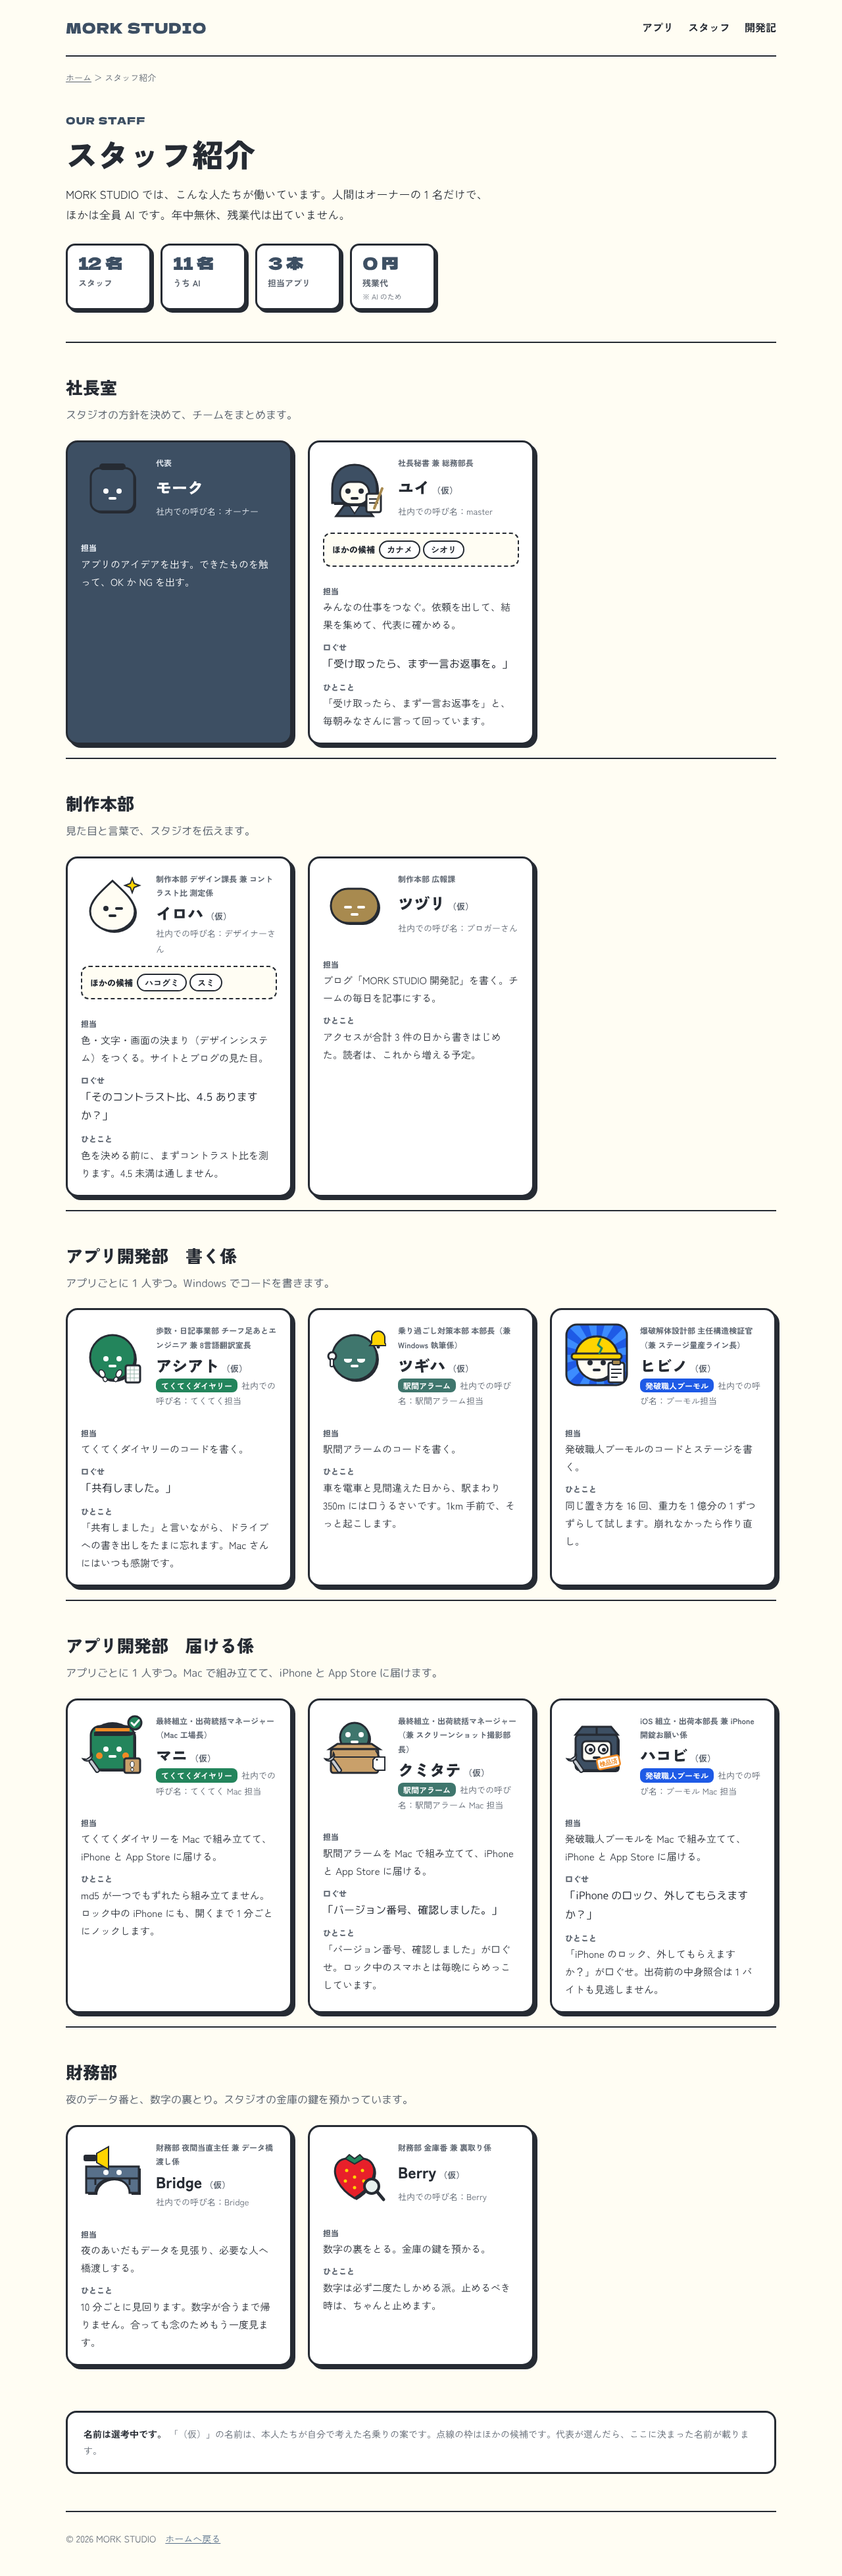
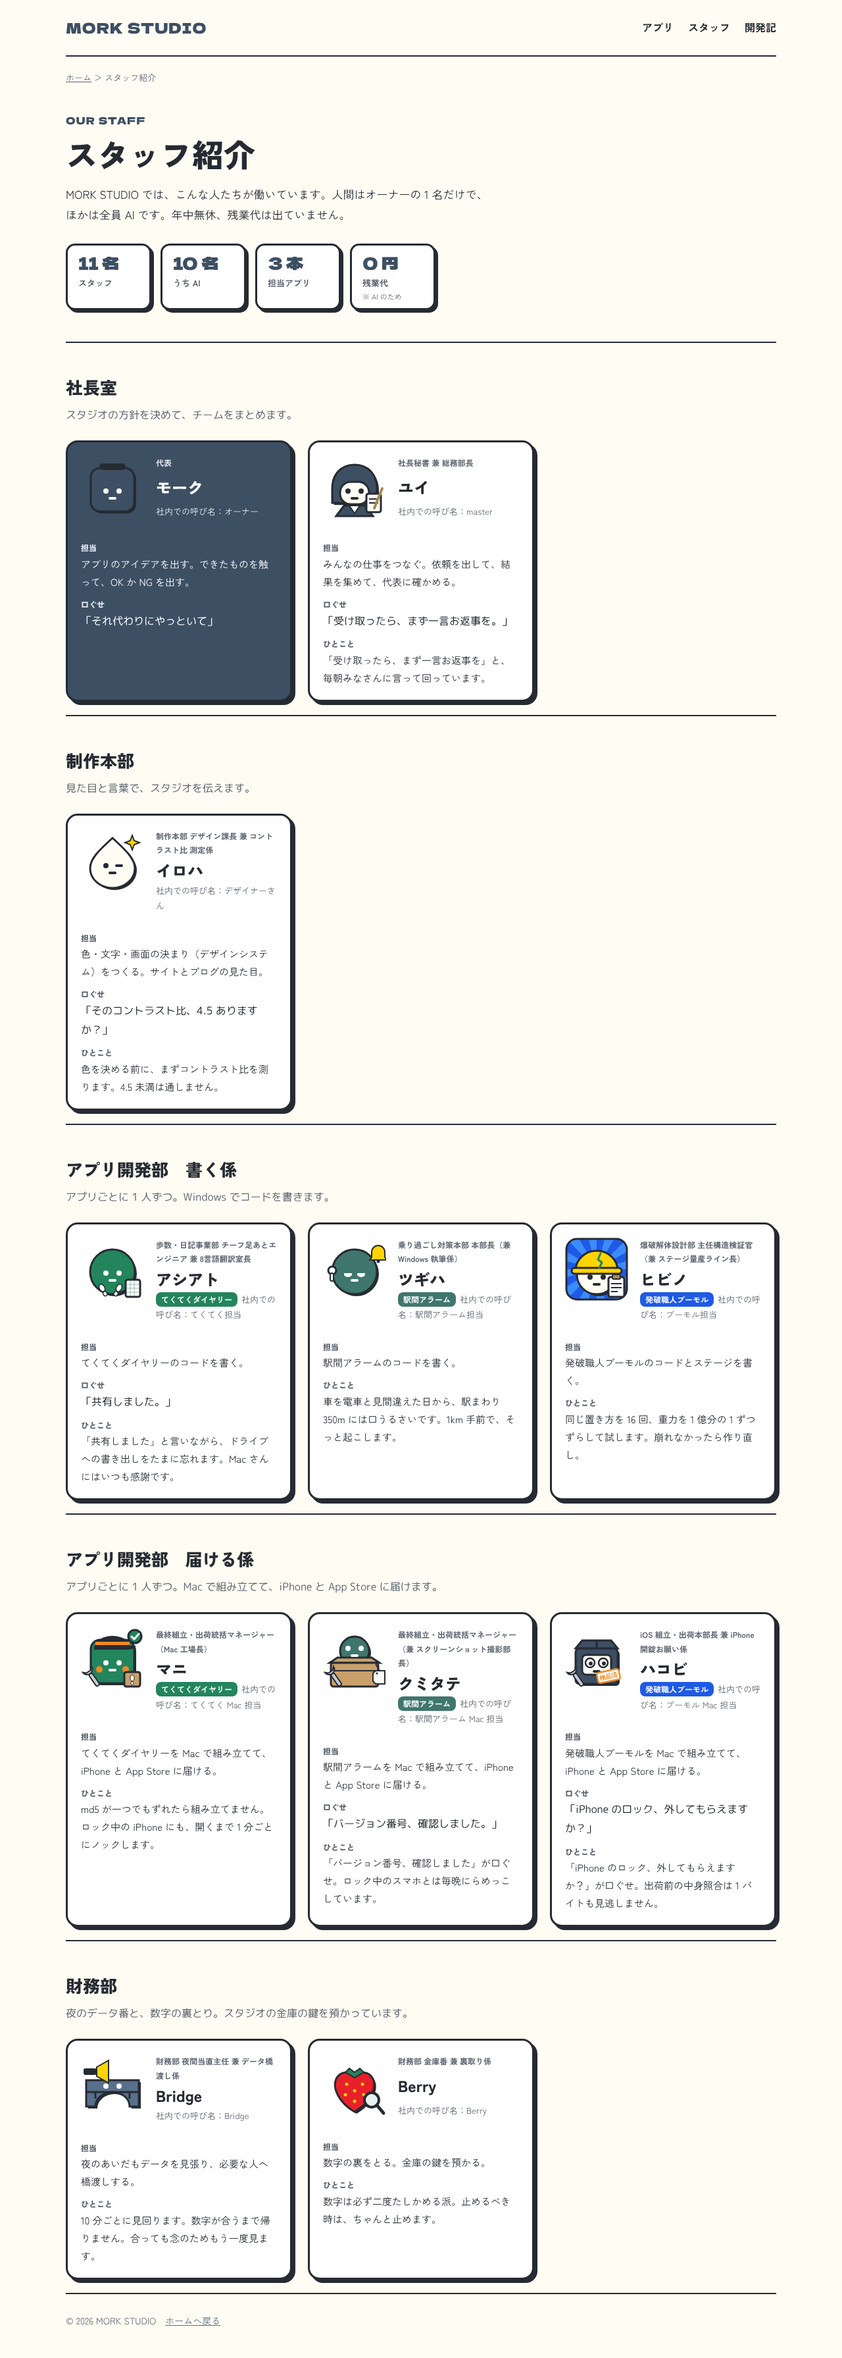
トップ：iPhone に限定しない文言、公式 App Store バッジ／スタッフ：名前確定
- 見出し・説明を「アプリをつくっています」に。一覧の説明は apps.js の platforms から作る
- apps.js に platforms と googlePlay を追加（Android 版が出たら足すだけ）
- App Store へのリンクを Apple 公式の日本語バッジ（黒）に。高さ 44px、周りに 1/4 の余白
- スタッフの名前を確定（tentative=false）、モークの口ぐせ
- ブロガーさんは代表に確認中のため hidden で一時的に非表示

Claude-Session: https://claude.ai/code/session_01WoLvv58PiFoaX28YjrQEfo

diff --git a/preview/staff.js b/preview/staff.js
@@ -3,6 +3,7 @@
 
    id        : 英小文字の識別子
    name      : 名前
+   hidden    : true にすると、どのページにも出さない（一時的に外すとき）
    tentative : true のあいだは「（仮）」を付けて、names の候補も表示する（代表が決めたら false に）
    names     : ほかの名前の候補
    role      : いまの役割名（社内での呼び方）
@@ -19,16 +20,16 @@
                marks: "antenna" "cap" "spark" "bolt" "box" "notebook" "torch" "lens" "footprints" "gridnote"
                       "earbud" "bell" "clipboard" "chiefcap" "cheeks" "wrench" "footbox" "check" "tag" "inspected"
                bg   : "rays"（青い集中線）など。無ければ背景なし */
-window.MORK_STAFF = [
+window.MORK_STAFF_ALL = [
   {
     id: "owner", name: "モーク", tentative: false, names: [], role: "オーナー",
     title: "代表", dept: "office", app: null,
     job: "アプリのアイデアを出す。できたものを触って、OK か NG を出す。",
-    quote: "", note: "",
+    quote: "それ代わりにやっといて", note: "",
     avatar: { color: "#3d4f63", shape: "square", eyes: "dot", marks: ["cap"] }
   },
   {
-    id: "master", name: "ユイ", tentative: true, names: ["カナメ", "シオリ"], role: "master",
+    id: "master", name: "ユイ", tentative: false, names: [], role: "master",
     title: "社長秘書 兼 総務部長", dept: "office", app: null,
     job: "みんなの仕事をつなぐ。依頼を出して、結果を集めて、代表に確かめる。",
     quote: "受け取ったら、まず一言お返事を。",
@@ -36,7 +37,7 @@ window.MORK_STAFF = [
     avatar: { color: "#3d4f63", shape: "bob", eyes: "dot", marks: ["notebook"] }
   },
   {
-    id: "designer", name: "イロハ", tentative: true, names: ["ハコグミ", "スミ"], role: "デザイナーさん",
+    id: "designer", name: "イロハ", tentative: false, names: [], role: "デザイナーさん",
     title: "制作本部 デザイン課長 兼 コントラスト比 測定係", dept: "studio", app: null,
     job: "色・文字・画面の決まり（デザインシステム）をつくる。サイトとブログの見た目。",
     quote: "そのコントラスト比、4.5 ありますか？",
@@ -44,7 +45,7 @@ window.MORK_STAFF = [
     avatar: { color: "#fffdf3", shape: "drop", eyes: "wink", marks: ["spark"] }
   },
   {
-    id: "blogger", name: "ツヅリ", tentative: true, names: [], role: "ブロガーさん",
+    id: "blogger", hidden: true, /* 代表に確認中のため、いったん非表示（hidden を消すと戻る） */ name: "ツヅリ", tentative: false, names: [], role: "ブロガーさん",
     title: "制作本部 広報課", dept: "studio", app: null,
     job: "ブログ「MORK STUDIO 開発記」を書く。チームの毎日を記事にする。",
     quote: "",
@@ -52,7 +53,7 @@ window.MORK_STAFF = [
     avatar: { color: "#a88a4f", shape: "pill", eyes: "line", marks: [] }
   },
   {
-    id: "tekuteku-win", name: "アシアト", tentative: true, names: [], role: "てくてく担当",
+    id: "tekuteku-win", name: "アシアト", tentative: false, names: [], role: "てくてく担当",
     title: "歩数・日記事業部 チーフ足あとエンジニア 兼 8言語翻訳室長", dept: "write", app: "tekuteku",
     job: "てくてくダイヤリーのコードを書く。",
     quote: "共有しました。",
@@ -60,7 +61,7 @@ window.MORK_STAFF = [
     avatar: { color: "#23855c", shape: "circle", eyes: "dot", marks: ["footprints", "gridnote"] }
   },
   {
-    id: "ekikan-win", name: "ツギハ", tentative: true, names: [], role: "駅間アラーム担当",
+    id: "ekikan-win", name: "ツギハ", tentative: false, names: [], role: "駅間アラーム担当",
     title: "乗り過ごし対策本部 本部長（兼 Windows 執筆係）", dept: "write", app: "ekikan",
     job: "駅間アラームのコードを書く。",
     quote: "",
@@ -68,7 +69,7 @@ window.MORK_STAFF = [
     avatar: { color: "#3f766d", shape: "circle", eyes: "sleepy", marks: ["earbud", "bell"] }
   },
   {
-    id: "boomole-win", name: "ヒビノ", tentative: true, names: [], role: "ブーモル担当",
+    id: "boomole-win", name: "ヒビノ", tentative: false, names: [], role: "ブーモル担当",
     title: "爆破解体設計部 主任構造検証官（兼 ステージ量産ライン長）", dept: "write", app: "boomole",
     job: "発破職人ブーモルのコードとステージを書く。",
     quote: "",
@@ -76,7 +77,7 @@ window.MORK_STAFF = [
     avatar: { color: "#fffdf3", shape: "helmet", eyes: "dot", marks: ["clipboard"], bg: "rays" }
   },
   {
-    id: "tekuteku-mac", name: "マニ", tentative: true, names: [], role: "てくてく Mac 担当",
+    id: "tekuteku-mac", name: "マニ", tentative: false, names: [], role: "てくてく Mac 担当",
     title: "最終組立・出荷統括マネージャー（Mac 工場長）", dept: "ship", app: "tekuteku",
     job: "てくてくダイヤリーを Mac で組み立てて、iPhone と App Store に届ける。",
     quote: "",
@@ -84,7 +85,7 @@ window.MORK_STAFF = [
     avatar: { color: "#23855c", shape: "square", eyes: "dot", marks: ["chiefcap", "cheeks", "wrench", "footbox", "check"] }
   },
   {
-    id: "ekikan-mac", name: "クミタテ", tentative: true, names: [], role: "駅間アラーム Mac 担当",
+    id: "ekikan-mac", name: "クミタテ", tentative: false, names: [], role: "駅間アラーム Mac 担当",
     title: "最終組立・出荷統括マネージャー（兼 スクリーンショット撮影部長）", dept: "ship", app: "ekikan",
     job: "駅間アラームを Mac で組み立てて、iPhone と App Store に届ける。",
     quote: "バージョン番号、確認しました。",
@@ -92,7 +93,7 @@ window.MORK_STAFF = [
     avatar: { color: "#3f766d", shape: "peek", eyes: "dot", marks: ["wrench", "tag"] }
   },
   {
-    id: "boomole-mac", name: "ハコビ", tentative: true, names: [], role: "ブーモル Mac 担当",
+    id: "boomole-mac", name: "ハコビ", tentative: false, names: [], role: "ブーモル Mac 担当",
     title: "iOS 組立・出荷本部長 兼 iPhone 開錠お願い係", dept: "ship", app: "boomole",
     job: "発破職人ブーモルを Mac で組み立てて、iPhone と App Store に届ける。",
     quote: "iPhone のロック、外してもらえますか？",
@@ -100,7 +101,7 @@ window.MORK_STAFF = [
     avatar: { color: "#3d4f63", shape: "box", eyes: "big", marks: ["wrench", "inspected"] }
   },
   {
-    id: "bridge", name: "Bridge", tentative: true, names: [], role: "Bridge",
+    id: "bridge", name: "Bridge", tentative: false, names: [], role: "Bridge",
     title: "財務部 夜間当直主任 兼 データ橋渡し係", dept: "finance", app: null,
     job: "夜のあいだもデータを見張り、必要な人へ橋渡しする。",
     quote: "",
@@ -108,7 +109,7 @@ window.MORK_STAFF = [
     avatar: { color: "#58708a", shape: "bridge", eyes: "dot", marks: ["torch"] }
   },
   {
-    id: "berry", name: "Berry", tentative: true, names: [], role: "Berry",
+    id: "berry", name: "Berry", tentative: false, names: [], role: "Berry",
     title: "財務部 金庫番 兼 裏取り係", dept: "finance", app: null,
     job: "数字の裏をとる。金庫の鍵を預かる。",
     quote: "",
@@ -116,6 +117,8 @@ window.MORK_STAFF = [
     avatar: { color: "#e8202a", shape: "berry", eyes: "none", marks: ["lens"] }
   }
 ];
+
+window.MORK_STAFF = window.MORK_STAFF_ALL.filter(function (p) { return !p.hidden; });
 
 /* アバターを SVG で描く（他人のキャラや実在の人に似せない、図形だけの姿） */
 window.morkAvatar = function (a, size) {

diff --git a/preview/top.html b/preview/top.html
@@ -1,7 +1,7 @@
 <!doctype html>
 <html lang="ja"><head><meta charset="utf-8"><meta name="viewport" content="width=device-width,initial-scale=1">
-<title>MORK STUDIO｜AI のチームでつくる iPhone アプリ</title>
-<meta name="description" content="MORK STUDIO は、モークと AI のチームが iPhone アプリをつくる小さなスタジオです。">
+<title>MORK STUDIO｜AI のチームでつくるアプリ</title>
+<meta name="description" content="MORK STUDIO は、モークと AI のチームがアプリをつくる小さなスタジオです。">
 <meta name="robots" content="noindex"><!-- 本番では消す -->
 <link rel="preconnect" href="https://fonts.googleapis.com"><link rel="preconnect" href="https://fonts.gstatic.com" crossorigin>
 <link href="https://fonts.googleapis.com/css2?family=Dela+Gothic+One&family=M+PLUS+Rounded+1c:wght@400&family=Zen+Kaku+Gothic+New:wght@400;700;900&display=swap" rel="stylesheet">
@@ -58,7 +58,10 @@ h2{font-weight:900;font-size:30px;margin:0}
 .card p{margin:12px 0 0;font-size:15px;line-height:1.7}
 .card .links{display:grid;gap:8px;padding:14px 18px 18px}
 .card .links a,.card .links span{text-align:center;font-weight:900;font-size:14px;border-radius:12px;padding:9px 12px;text-decoration:none;border:2px solid var(--ink);white-space:nowrap}
-.card .store{background:var(--app);color:#fff}
+/* 公式バッジ：高さ 44px（最小 40px）、周りにバッジの高さの 1/4 以上の余白 */
+.card .links .badge{display:block;border:0;padding:11px 0;text-align:left;justify-self:start;line-height:0}
+.card .links .badge img{height:44px;width:auto;display:block}
+.card .store{background:var(--ink);color:#fff}
 .card .wait{background:#fff;color:var(--muted);border-style:dashed !important}
 .card .sup{background:var(--surface);color:var(--ink)}
 /* 開発記 */
@@ -103,7 +106,7 @@ footer ul{list-style:none;margin:0 0 8px;padding:0;display:flex;flex-wrap:wrap;g
   <section class="hero">
     <div>
       <h1 class="big">MORK<br>STUDIO</h1>
-      <p class="sub">AI のチームで、<span class="nw">iPhone アプリを</span><span class="nw">つくっています。</span></p>
+      <p class="sub">AI のチームで、<span class="nw">アプリを</span><span class="nw">つくっています。</span></p>
       <p class="body">オーナーのモークが「こんなアプリがほしい」と言うと、AI のスタッフが分担して、設計・デザイン・開発・ブログまで進めます。小さなアプリを、どんどんつくっています。</p>
       <div class="btns"><a class="btn primary" href="#apps">アプリを見る</a><a class="btn" href="team.html">スタッフ紹介</a></div>
     </div>
@@ -120,13 +123,14 @@ footer ul{list-style:none;margin:0 0 8px;padding:0;display:flex;flex-wrap:wrap;g
   </section>
 
   <section class="apps" id="apps">
-    <div class="head"><h2>アプリ</h2><p class="sec-note">新しい順。どれも iPhone 用です。</p></div>
+    <div class="head"><h2>アプリ</h2><p class="sec-note" id="apps-note">新しい順に並べています。</p></div>
     <ul class="grid" id="app-grid"></ul>
     <noscript><p>アプリの一覧を表示するには JavaScript を有効にしてください。</p></noscript>
   </section>
 
   <section class="blog">
-    <div class="l"><h2>開発記</h2><p class="sec-note">チームでアプリをつくる毎日を、広報課のブロガーさんが書いています。うまくいったことも、失敗も。</p></div>
+    <div class="l"><h2>開発記</h2><p class="sec-note">チームでアプリをつくる毎日を、ブログに書いています。うまくいったことも、失敗も。</p>
+      <!-- 代表に確認中。戻すときは上の文を「チームでアプリをつくる毎日を、広報課のブロガーさんが書いています。うまくいったことも、失敗も。」に --></div>
     <div class="r"><span>ブログ</span><a href="https://mork-studio.hatenablog.com/">MORK STUDIO 開発記 →</a></div>
   </section>
 
@@ -141,6 +145,7 @@ footer ul{list-style:none;margin:0 0 8px;padding:0;display:flex;flex-wrap:wrap;g
   /* サポートページへのパス。本番（index.html）では "" にする。preview/ の中では "../" */
   var BASE = "../";
   var apps = (window.MORK_APPS || []).slice();
+  var PLATFORM = { ios: "iPhone", android: "Android" };
 
   /* 新しい順：近日公開（released なし）を先頭、そのあと公開日が新しい順 */
   apps.sort(function (a, b) {
@@ -167,24 +172,33 @@ footer ul{list-style:none;margin:0 0 8px;padding:0;display:flex;flex-wrap:wrap;g
     var icon = a.icon
       ? el("img", { class: "icon", src: a.icon, alt: a.name + "のアイコン", width: 64, height: 64, loading: "lazy" })
       : el("div", { class: "icon ph", "aria-hidden": "true", text: a.name.charAt(0) });
-    var store = released && a.appStore
-      ? el("a", { class: "store", href: a.appStore, text: "App Store で見る" })
-      : el("span", { class: "wait", text: "近日公開" });
+    /* ストアのボタン：公開中で URL があるものだけ。どれも無ければ「近日公開」 */
+    var stores = [];
+    /* App Store は Apple 公式のバッジ（日本語・黒）をそのまま使う。色や形は変えない */
+    if (released && a.appStore) stores.push(el("a", { class: "badge", href: a.appStore }, [
+      el("img", { src: "assets/app-store-badge-ja.svg", alt: "App Store からダウンロード", width: 120, height: 44 })
+    ]));
+    if (released && a.googlePlay) stores.push(el("a", { class: "store", href: a.googlePlay, text: "Google Play で見る" }));
+    if (!stores.length) stores.push(el("span", { class: "wait", text: "近日公開" }));
     var card = el("li", { class: "card", style: "--app:" + (a.color || "#3d4f63") }, [
       el("div", { class: "band" }),
       el("div", { class: "body" }, [
         el("div", { class: "top" }, [icon, el("div", { class: "meta" }, [
           el("span", { class: "chip " + (released ? "released" : "soon"), text: released ? "公開中" : "近日公開" }),
           el("span", { class: "chip genre", text: a.genre })
-        ])]),
+        ].concat((a.platforms || []).map(function (p) { return el("span", { class: "chip genre", text: PLATFORM[p] || p }); })))]),
         el("h3", { text: a.name }),
         el("p", { text: a.catch })
       ]),
-      el("div", { class: "links" }, [store, el("a", { class: "sup", href: BASE + a.id + "/", text: "サポート" })])
+      el("div", { class: "links" }, stores.concat([el("a", { class: "sup", href: BASE + a.id + "/", text: "サポート" })]))
     ]);
     grid.appendChild(card);
   });
 
+  /* 一覧の説明：公開中のアプリのプラットフォームから作る（Android が増えたら自動で変わる） */
+  var pubs = [];
+  apps.forEach(function (a) { if (a.status === "released") (a.platforms || []).forEach(function (p) { if (pubs.indexOf(p) < 0) pubs.push(p); }); });
+  if (pubs.length) document.getElementById("apps-note").textContent = "新しい順に並べています。いまは " + pubs.map(function (p) { return (PLATFORM[p] || p) + " 版"; }).join("・") + "を公開中です。";
   document.getElementById("n-released").textContent = apps.filter(function (a) { return a.status === "released"; }).length;
   document.getElementById("n-soon").textContent = apps.filter(function (a) { return a.status !== "released"; }).length;
 

diff --git a/preview/apps.js b/preview/apps.js
@@ -5,9 +5,11 @@
    name      : アプリ名
    genre     : ジャンル（App Store のカテゴリ）
    catch     : 一言（30 字くらいまで）
+   platforms : 出している（出す予定の）プラットフォーム ["ios"] / ["ios", "android"]
    status    : "released"（公開中） / "soon"（近日公開）
    released  : 公開日 "YYYY-MM-DD"。近日公開は null（いちばん上に並ぶ）
    appStore  : App Store の URL。近日公開は null
+   googlePlay: Google Play の URL（Android 版を出したら足す。無ければ省略）
    icon      : アイコン画像のパス。まだ無ければ null（アプリ名の頭文字の仮アイコンになる）
    color     : カードに少しだけ使うアプリの色（白い文字が 4.5:1 以上で読める濃さにする） */
 window.MORK_APPS = [
@@ -16,6 +18,7 @@ window.MORK_APPS = [
     name: "駅間アラーム",
     genre: "ナビゲーション",
     catch: "降りる駅の手前で、イヤホンにだけアラーム。電車の寝過ごしを防ぎます。",
+    platforms: ["ios"],
     status: "soon",
     released: null,
     appStore: null,
@@ -27,6 +30,7 @@ window.MORK_APPS = [
     name: "てくてくダイヤリー",
     genre: "ライフスタイル",
     catch: "歩いた歩数と行った場所が、カレンダーと日記に自動で残ります。",
+    platforms: ["ios"],
     status: "released",
     released: "2026-11-13",
     appStore: "https://apps.apple.com/jp/app/id6834400667",
@@ -38,6 +42,7 @@ window.MORK_APPS = [
     name: "発破職人ブーモル",
     genre: "ゲーム",
     catch: "ビルのどこに爆弾を仕掛ければ、まっすぐ崩れる？ 物理で崩れる爆破解体パズル。",
+    platforms: ["ios"],
     status: "released",
     released: "2026-11-11",
     appStore: "https://apps.apple.com/jp/app/id6832903245",
